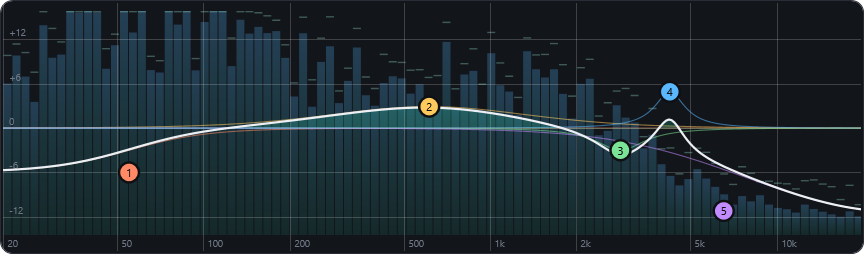
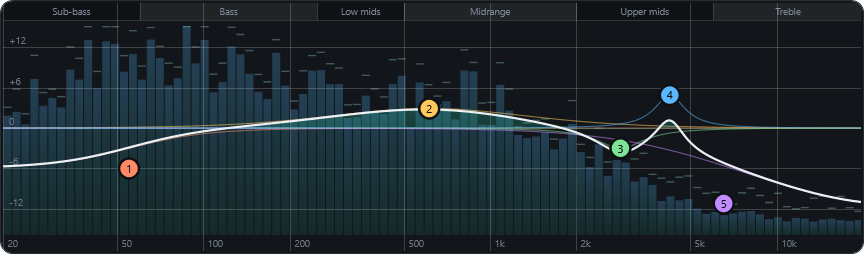
Name the parts of the spectrum on the plot
A frequency axis is only readable by someone who already knows which frequency
is which. A strip across the top now marks sub-bass, bass, low mids, midrange,
upper mids and treble on the same log axis, and touching a band writes its range
and what that range does into the status bar - so 2849 Hz reads as upper mids,
presence and bite, rather than as a number.

Labels fall back to a short form and then to nothing rather than overflowing
their zone, since the narrow ones shrink with the window.

Changed region(s): [[0.0, 0.0276, 1.0, 0.8819], [0.8125, 0.4685, 0.8438, 0.4961], [0.1562, 0.5512, 0.1875, 0.5787]]

diff --git a/csharp/JadeAudioControl/Controls/EqCurve.cs b/csharp/JadeAudioControl/Controls/EqCurve.cs
@@ -59,6 +59,11 @@ public sealed class EqCurve : FrameworkElement
 
     public int SelectedIndex { get; private set; } = -1;
 
+    /// <summary>Name the parts of the spectrum along the top of the plot.</summary>
+    public bool ShowZones { get; set; } = true;
+
+    private const double ZoneStripHeight = 17;
+
     public EqCurve()
     {
         ClipToBounds = true;
@@ -93,17 +98,12 @@ public sealed class EqCurve : FrameworkElement
         return Math.Pow(10, lo + t * (hi - lo));
     }
 
-    private double YOf(double db)
-    {
-        double half = ActualHeight / 2;
-        return half - db / DbSpan * (half - 14);
-    }
+    /// <summary>Half the plot height, less the room taken by the labels.</summary>
+    private double PlotHalf => ActualHeight / 2 - (ShowZones ? 24 : 14);
 
-    private double DbOf(double y)
-    {
-        double half = ActualHeight / 2;
-        return (half - y) / Math.Max(half - 14, 1) * DbSpan;
-    }
+    private double YOf(double db) => ActualHeight / 2 - db / DbSpan * PlotHalf;
+
+    private double DbOf(double y) => (ActualHeight / 2 - y) / Math.Max(PlotHalf, 1) * DbSpan;
 
     // -- filter maths --------------------------------------------------------
 
@@ -180,6 +180,7 @@ public sealed class EqCurve : FrameworkElement
         dc.DrawRectangle(Brushes.Transparent, null, new Rect(0, 0, w, h));
 
         DrawSpectrum(dc, w, h);
+        DrawZones(dc, w, h);
 
         var gridPen = new Pen(new SolidColorBrush(Color.FromArgb(0x30, 0xFF, 0xFF, 0xFF)), 1);
         var zeroPen = new Pen(new SolidColorBrush(Color.FromArgb(0x60, 0x2F, 0xD4, 0xB5)), 1);
@@ -249,6 +250,55 @@ public sealed class EqCurve : FrameworkElement
     }
 
     /// <summary>
+    /// A strip of names across the top: sub-bass through treble, on the same
+    /// log axis as everything else. A plot of frequencies is only useful to
+    /// someone who already knows which frequency is which, and this says so.
+    /// </summary>
+    private void DrawZones(DrawingContext dc, double w, double h)
+    {
+        if (!ShowZones || h < 90)
+            return;
+
+        var stripBrush = new SolidColorBrush(Color.FromArgb(0x30, 0x00, 0x00, 0x00));
+        stripBrush.Freeze();
+        dc.DrawRectangle(stripBrush, null, new Rect(0, 0, w, ZoneStripHeight));
+
+        var edge = new Pen(new SolidColorBrush(Color.FromArgb(0x22, 0xFF, 0xFF, 0xFF)), 1);
+        edge.Freeze();
+        dc.DrawLine(edge, new Point(0, ZoneStripHeight + 0.5), new Point(w, ZoneStripHeight + 0.5));
+
+        var labelBrush = new SolidColorBrush(Color.FromRgb(0x7C, 0x87, 0x96));
+        labelBrush.Freeze();
+        var tintBrush = new SolidColorBrush(Color.FromArgb(0x14, 0xFF, 0xFF, 0xFF));
+        tintBrush.Freeze();
+
+        var zones = FrequencyZones.All;
+        for (int i = 0; i < zones.Count; i++)
+        {
+            double left = XOf(zones[i].Low);
+            double right = XOf(zones[i].High);
+            double width = right - left;
+
+            if (i % 2 == 1)
+                dc.DrawRectangle(tintBrush, null, new Rect(left, 0, width, ZoneStripHeight));
+
+            if (i > 0)
+                dc.DrawLine(edge, new Point(Math.Round(left) + 0.5, 0),
+                                  new Point(Math.Round(left) + 0.5, ZoneStripHeight));
+
+            // Drop to the short name, then to nothing, rather than overflow.
+            var text = Label(zones[i].Name, 9.5, labelBrush);
+            if (text.Width > width - 8)
+                text = Label(zones[i].ShortName, 9.5, labelBrush);
+            if (text.Width > width - 4)
+                continue;
+
+            dc.DrawText(text, new Point(left + (width - text.Width) / 2,
+                                        (ZoneStripHeight - text.Height) / 2));
+        }
+    }
+
+    /// <summary>
     /// The spectrum sits behind the grid, dim enough that the EQ curve stays the
     /// thing being read. Bars share the curve's log axis, so a peak in the music
     /// lines up with the band that would move it.
@@ -260,7 +310,7 @@ public sealed class EqCurve : FrameworkElement
             return;
 
         double floor = h - 18;
-        double usable = floor - 8;
+        double usable = floor - (ShowZones ? ZoneStripHeight + 6 : 8);
         double barWidth = w / bars.Length;
 
         var fill = new LinearGradientBrush

diff --git a/csharp/JadeAudioControl/Controls/FrequencyZones.cs b/csharp/JadeAudioControl/Controls/FrequencyZones.cs
@@ -1,0 +1,75 @@
+using System;
+using System.Collections.Generic;
+using System.Globalization;
+
+namespace JadeAudioControl.Controls;
+
+/// <summary>One named stretch of the spectrum, and what moving it tends to do.</summary>
+public sealed class FrequencyZone
+{
+    public FrequencyZone(string name, string shortName, double low, double high, string effect)
+    {
+        Name = name;
+        ShortName = shortName;
+        Low = low;
+        High = high;
+        Effect = effect;
+    }
+
+    public string Name { get; }
+    /// <summary>Used when the zone is too narrow on screen for the full name.</summary>
+    public string ShortName { get; }
+    public double Low { get; }
+    public double High { get; }
+    /// <summary>What a listener hears when this range moves.</summary>
+    public string Effect { get; }
+
+    public string Range => High >= 1000
+        ? $"{Format(Low)}-{Format(High)}"
+        : $"{Low:0}-{High:0} Hz";
+
+    private static string Format(double hz) =>
+        hz >= 1000
+            ? (hz / 1000).ToString("0.#", CultureInfo.InvariantCulture) + " kHz"
+            : hz.ToString("0", CultureInfo.InvariantCulture) + " Hz";
+}
+
+/// <summary>
+/// The conventional names for parts of the audible band, so the plot says what
+/// a region is for rather than leaving the reader to know it already.
+/// </summary>
+public static class FrequencyZones
+{
+    public static readonly IReadOnlyList<FrequencyZone> All = new[]
+    {
+        new FrequencyZone("Sub-bass", "Sub", 20, 60,
+            "weight and rumble you feel more than hear"),
+        new FrequencyZone("Bass", "Bass", 60, 250,
+            "the body of kick, bass guitar and low synths"),
+        new FrequencyZone("Low mids", "Low mid", 250, 500,
+            "warmth; too much here is the classic muddy sound"),
+        new FrequencyZone("Midrange", "Mid", 500, 2000,
+            "where most voices and instruments actually live"),
+        new FrequencyZone("Upper mids", "Upper mid", 2000, 6000,
+            "presence and bite; too much is shouty and tiring"),
+        new FrequencyZone("Treble", "Treble", 6000, 20000,
+            "detail, cymbals and air; too much turns sibilant"),
+    };
+
+    public static FrequencyZone For(double hz)
+    {
+        foreach (var zone in All)
+        {
+            if (hz < zone.High)
+                return zone;
+        }
+        return All[All.Count - 1];
+    }
+
+    /// <summary>"Midrange - where most voices and instruments actually live".</summary>
+    public static string Describe(double hz)
+    {
+        var zone = For(hz);
+        return $"{zone.Name} ({zone.Range}) - {zone.Effect}";
+    }
+}

diff --git a/csharp/JadeAudioControl/MainWindow.xaml.cs b/csharp/JadeAudioControl/MainWindow.xaml.cs
@@ -427,6 +427,20 @@ public partial class MainWindow : Window
         Curve.SetSelected(index);
         for (int i = 0; i < _rows.Count; i++)
             _rows[i].SetActive(i == index);
+
+        if (index >= 0 && index < _bands.Count)
+            ShowBandZone(index);
+    }
+
+    /// <summary>
+    /// Say which part of the spectrum the band sits in, and what that part
+    /// does - a frequency is only meaningful to someone who already knows the
+    /// map, and this is where the map gets read out.
+    /// </summary>
+    private void ShowBandZone(int index)
+    {
+        var band = _bands[index];
+        Status($"Band {index + 1} at {band.Frequency} Hz - {FrequencyZones.Describe(band.Frequency)}");
     }
 
     private void Curve_BandDragged(object? sender, BandDragEventArgs e)

diff --git a/csharp/README.md b/csharp/README.md
@@ -36,9 +36,10 @@ can be saved to your own account, and deleted from it again.
 
 ![Preset library](docs/library.png)
 
-**Live spectrum** — an optional overlay showing what the dongle is playing,
-behind the EQ curve and on the same log axis, so a peak in the music lines up
-with the band that would move it.
+**Live spectrum** — an overlay showing what the dongle is playing, behind the EQ
+curve and on the same log axis, so a peak in the music lines up with the band
+that would move it. Across the top, the spectrum is named: sub-bass through
+treble, with the band you are touching described in the status bar.
 
 ![Live spectrum](docs/spectrum.png)
 
@@ -96,6 +97,7 @@ Releases are built by GitHub Actions rather than by hand - see
 | `Protocol/JadeDevice.cs` | serialised request/reply, typed accessors, capability probe |
 | `Cloud/CloudClient.cs` | the encrypted preset API and the account session |
 | `Controls/EqCurve.cs` | the response plot, the spectrum overlay and drag handling |
+| `Controls/FrequencyZones.cs` | the named parts of the spectrum and what each does |
 | `Audio/WasapiInterop.cs` | the WASAPI COM surface, declared by hand |
 | `Audio/LoopbackCapture.cs` | shared-mode loopback on the playback endpoint |
 | `Audio/SpectrumAnalyser.cs` | Hann window, radix-2 FFT, log-axis bands |
@@ -166,6 +168,25 @@ turns it off, which also stops the capture thread.
 Loopback is shared-mode, so a player holding the device in exclusive mode
 (WASAPI exclusive, ASIO) will show nothing. That is the API's behaviour, not a
 fault in the capture.
+
+## Naming the spectrum
+
+A plot of frequencies only helps someone who already knows which frequency is
+which, so the plot says it: a strip along the top marks sub-bass, bass, low
+mids, midrange, upper mids and treble, and touching a band writes the range and
+what it does into the status bar.
+
+| zone | range | what moving it does |
+| --- | --- | --- |
+| Sub-bass | 20-60 Hz | weight and rumble you feel more than hear |
+| Bass | 60-250 Hz | the body of kick, bass guitar and low synths |
+| Low mids | 250-500 Hz | warmth; too much here is the classic muddy sound |
+| Midrange | 500 Hz-2 kHz | where most voices and instruments actually live |
+| Upper mids | 2-6 kHz | presence and bite; too much is shouty and tiring |
+| Treble | 6-20 kHz | detail, cymbals and air; too much turns sibilant |
+
+The boundaries are the conventional ones and the edges are soft in practice -
+nothing changes character at exactly 250 Hz.
 
 ## Firmware
 
